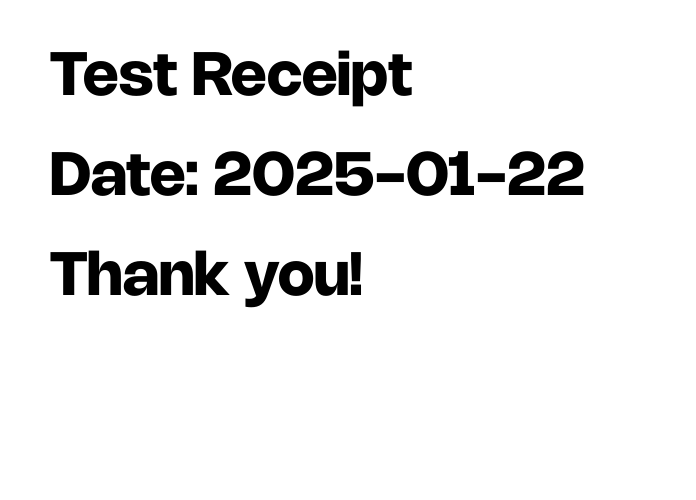
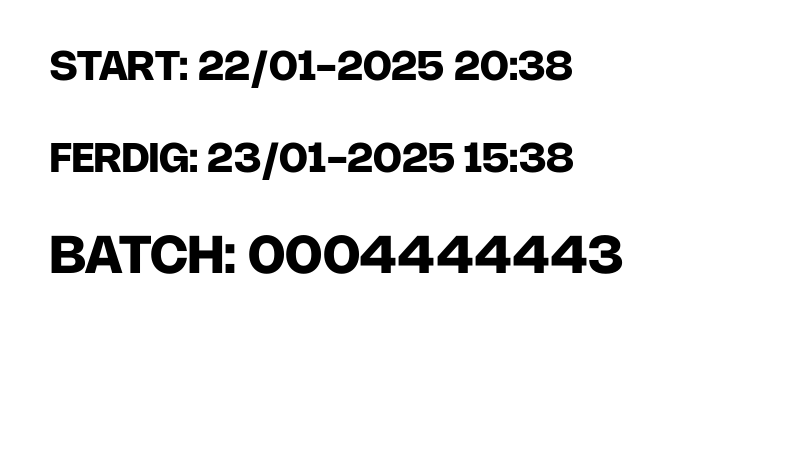
yy

Changed region(s): [[0.0603, 0.28, 0.8448, 0.4044], [0.0603, 0.4978, 0.7845, 0.6222], [0.0603, 0.0933, 0.7241, 0.2178]]

diff --git a/printer_app.py b/printer_app.py
@@ -5,10 +5,12 @@ from brother_ql.conversion import convert
 from brother_ql.backends.helpers import send
 from brother_ql.raster import BrotherQLRaster
 
+from datetime import datetime, timedelta
+
 class PrinterApp:
     def __init__(self, root, test_mode=True):
         self.root = root
-        self.root.title("Receipt Printer")
+        self.root.title("Label Printer")
         self.test_mode = test_mode
         
         # Make the window fullscreen on Raspberry Pi
@@ -17,17 +19,40 @@ class PrinterApp:
         # Set white background
         self.root.configure(bg='white')
         
-        # Create a frame to center the button with white background
-        frame = tk.Frame(root, bg='white')
-        frame.place(relx=0.5, rely=0.5, anchor='center')
+        # Create main container
+        main_container = tk.Frame(root, bg='white')
+        main_container.pack(expand=True, fill='both', padx=20, pady=20)
+        
+        # Left side - Container for vertical centering
+        left_frame = tk.Frame(main_container, bg='white')
+        left_frame.pack(side='left', expand=True, fill='both', padx=(0, 20))
+        
+        # Center container vertically
+        center_frame = tk.Frame(left_frame, bg='white')
+        center_frame.place(relx=0.5, rely=0.5, anchor='center')
+        
+        # Batch number display
+        self.batch_display = tk.Entry(
+            center_frame,
+            font=('Nohemi-Bold', 36),
+            justify='center',
+            width=10,
+            bg='white',
+            fg='#ff1910',
+            relief='flat',
+            bd=2
+        )
+        self.batch_display.pack(pady=(0, 30))
+        self.batch_display.insert(0, '000')  # Default prefix
+        self.batch_display.config(state='readonly')
         
         # Button style configuration
         button_font = ('Nohemi-Bold', 24)
         button_color = '#ff1910'
-        button_style = {
+        self.button_style = {
             'bg': button_color,
             'fg': 'white',
-            'activebackground': '#cc140c',  # Slightly darker for pressed state
+            'activebackground': '#cc140c',
             'activeforeground': 'white',
             'relief': 'flat',
             'borderwidth': 0,
@@ -35,67 +60,146 @@ class PrinterApp:
             'pady': 15,
         }
         
-        # Create a large button suitable for touch screens
+        # Print button
         self.print_button = tk.Button(
-            frame,
-            text="PRINT RECEIPT",
+            center_frame,
+            text="PRINT LABEL",
             command=self.print_receipt,
             font=button_font,
-            **button_style
+            **self.button_style
         )
-        self.print_button.pack(pady=20)
+        self.print_button.pack()
         
-        # Add a quit button in the corner with matching style
+        # Right side - Numpad
+        numpad_frame = tk.Frame(main_container, bg='white')
+        numpad_frame.pack(side='right', padx=(20, 0))
+        
+        # Create numpad
+        self.create_numpad(numpad_frame)
+        
+        # Add a quit button in the corner
         quit_button = tk.Button(
             root,
             text="X",
             command=root.quit,
             font=('Nohemi-Bold', 16),
-            **button_style
+            **self.button_style
         )
         quit_button.place(x=10, y=10)
+        
+        # Initialize batch number and button state
+        self.current_batch = '000'
+        self.update_button_state()  # Initially disable button
+        
+    def create_numpad(self, parent):
+        numpad_layout = [
+            ['7', '8', '9'],
+            ['4', '5', '6'],
+            ['1', '2', '3'],
+            ['C', '0', '⌫']
+        ]
+        
+        for row_idx, row in enumerate(numpad_layout):
+            for col_idx, key in enumerate(row):
+                btn = tk.Button(
+                    parent,
+                    text=key,
+                    font=('Nohemi-Bold', 24),
+                    width=3,
+                    command=lambda k=key: self.numpad_press(k),
+                    **self.button_style
+                )
+                btn.grid(row=row_idx, column=col_idx, padx=5, pady=5)
+    
+    def update_button_state(self):
+        current = self.batch_display.get()
+        if len(current) == 10:  # Valid batch number (000 + 7 digits)
+            self.print_button.configure(
+                state='normal',
+                bg=self.button_style['bg'],
+                activebackground=self.button_style['activebackground']
+            )
+        else:
+            self.print_button.configure(
+                state='disabled',
+                bg='#cccccc',
+                activebackground='#cccccc'
+            )
+                
+    def numpad_press(self, key):
+        current = self.batch_display.get()
+        
+        if key == '⌫':  # Backspace
+            if len(current) > 3:  # Don't delete the '000' prefix
+                self.batch_display.config(state='normal')
+                self.batch_display.delete(len(current)-1, tk.END)
+                self.batch_display.config(state='readonly')
+        elif key == 'C':  # Clear
+            self.batch_display.config(state='normal')
+            self.batch_display.delete(3, tk.END)  # Keep the '000' prefix
+            self.batch_display.config(state='readonly')
+        elif len(current) < 10:  # Max length is 10 (000 + 7 digits)
+            self.batch_display.config(state='normal')
+            self.batch_display.insert(tk.END, key)
+            self.batch_display.config(state='readonly')
+            
+        # Update button state after any input change
+        self.update_button_state()
 
     def create_receipt_image(self):
         # Create a new image with white background
-        width = 696  # Width for 62mm tape
-        height = 500  # Adjust height as needed
+        width = 800  # Width for 70mm tape
+        height = 450  # ~40mm height
         image = Image.new('RGB', (width, height), 'white')
         draw = ImageDraw.Draw(image)
         
-        # Add text to the image
         try:
-            font = ImageFont.truetype("assets/Nohemi/OpenType-TT/Nohemi-Bold.ttf", 60)
+            title_font = ImageFont.truetype("assets/Nohemi/OpenType-TT/Nohemi-Bold.ttf", 52)  # 45 * 1.15
+            time_font = ImageFont.truetype("assets/Nohemi/OpenType-TT/Nohemi-Bold.ttf", 40)   # 35 * 1.15
         except:
-            font = ImageFont.load_default()
-            
-        # Add receipt content
-        draw.text((50, 50), "Test Receipt", font=font, fill='black')
-        draw.text((50, 150), "Date: 2025-01-22", font=font, fill='black')
-        draw.text((50, 250), "Thank you!", font=font, fill='black')
+            title_font = time_font = ImageFont.load_default()
+        
+        # Get current time and finish time
+        now = datetime.now()
+        finish_time = now + timedelta(hours=19)
+        
+        # Format times
+        start_str = now.strftime("%d/%m-%Y %H:%M")
+        finish_str = finish_time.strftime("%d/%m-%Y %H:%M")
+        
+        # Get batch number
+        batch = self.batch_display.get()
+        
+        # Add content
+        y_spacing = 46  # Increased spacing to accommodate larger fonts
+        draw.text((50, 50), f"START: {start_str}", font=time_font, fill='black')
+        draw.text((50, 50 + y_spacing*2), f"FERDIG: {finish_str}", font=time_font, fill='black')
+        draw.text((50, 50 + y_spacing*4), f"BATCH: {batch}", font=title_font, fill='black')
         
         return image
 
     def show_printing_feedback(self):
-        # Disable and fade out the button
-        self.print_button.configure(state='disabled')
+        # Disable and gray out the button
+        self.print_button.configure(
+            state='disabled',
+            bg='#cccccc',
+            activebackground='#cccccc'
+        )
         
         # Create and show the printing message
         self.status_label = tk.Label(
             self.root,
             text="Printing...",
             font=('Nohemi-Bold', 28),
-            fg='#ff1910',
+            fg='#cccccc',
             bg='white'
         )
-        # Position it where the button is
+        # Position it above the button
         button_x = self.print_button.winfo_rootx() - self.root.winfo_rootx()
-        button_y = self.print_button.winfo_rooty() - self.root.winfo_rooty()
+        button_y = self.print_button.winfo_rooty() - self.root.winfo_rooty() - 50
         self.status_label.place(x=button_x, y=button_y)
         
-        # Hide the button
-        self.print_button.pack_forget()
-        
-        # Schedule the restoration of the button
+        # Schedule the restoration
         self.root.after(5000, self.restore_button)
 
     def restore_button(self):
@@ -103,9 +207,13 @@ class PrinterApp:
         if hasattr(self, 'status_label'):
             self.status_label.destroy()
         
-        # Show and enable the button
-        self.print_button.pack(pady=20)
-        self.print_button.configure(state='normal')
+        # Reset input field
+        self.batch_display.config(state='normal')
+        self.batch_display.delete(3, tk.END)  # Keep the '000' prefix
+        self.batch_display.config(state='readonly')
+        
+        # Update button state for the cleared input
+        self.update_button_state()
 
     def print_receipt(self):
         try:
@@ -136,7 +244,7 @@ class PrinterApp:
                 convert(
                     qlr=qlr,
                     images=[temp_path],
-                    label='62',  # 62mm endless label
+                    label='62',  # 70mm endless label
                     rotate='auto',
                     threshold=70.0,
                     dither=False,
